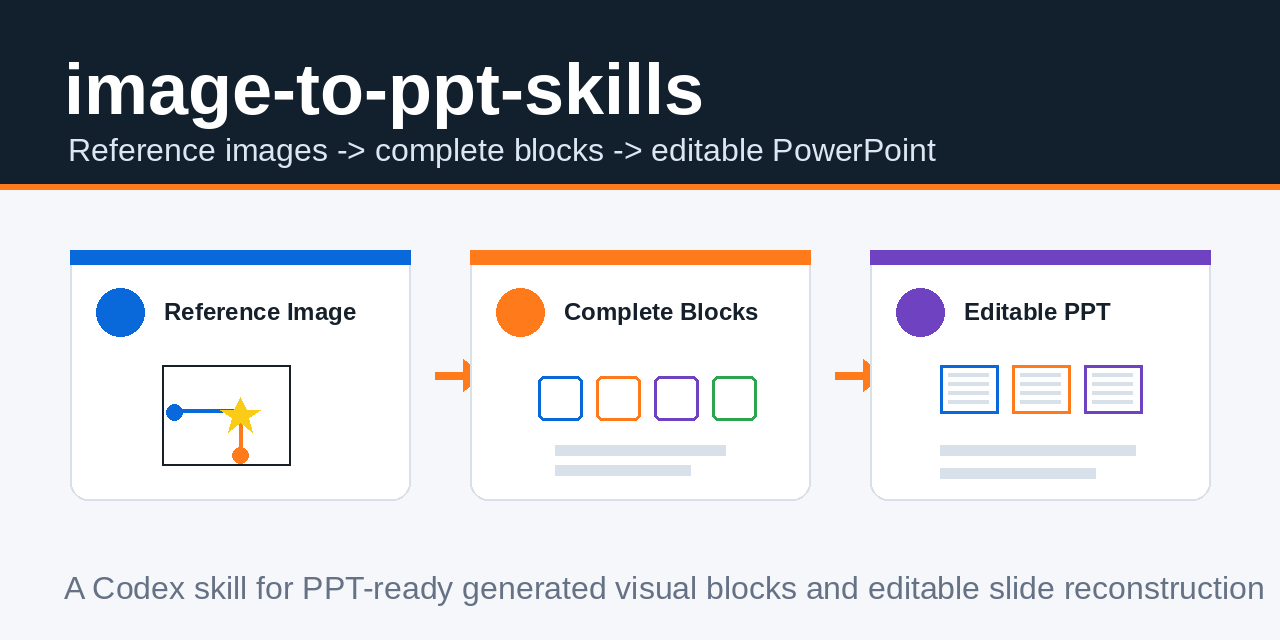
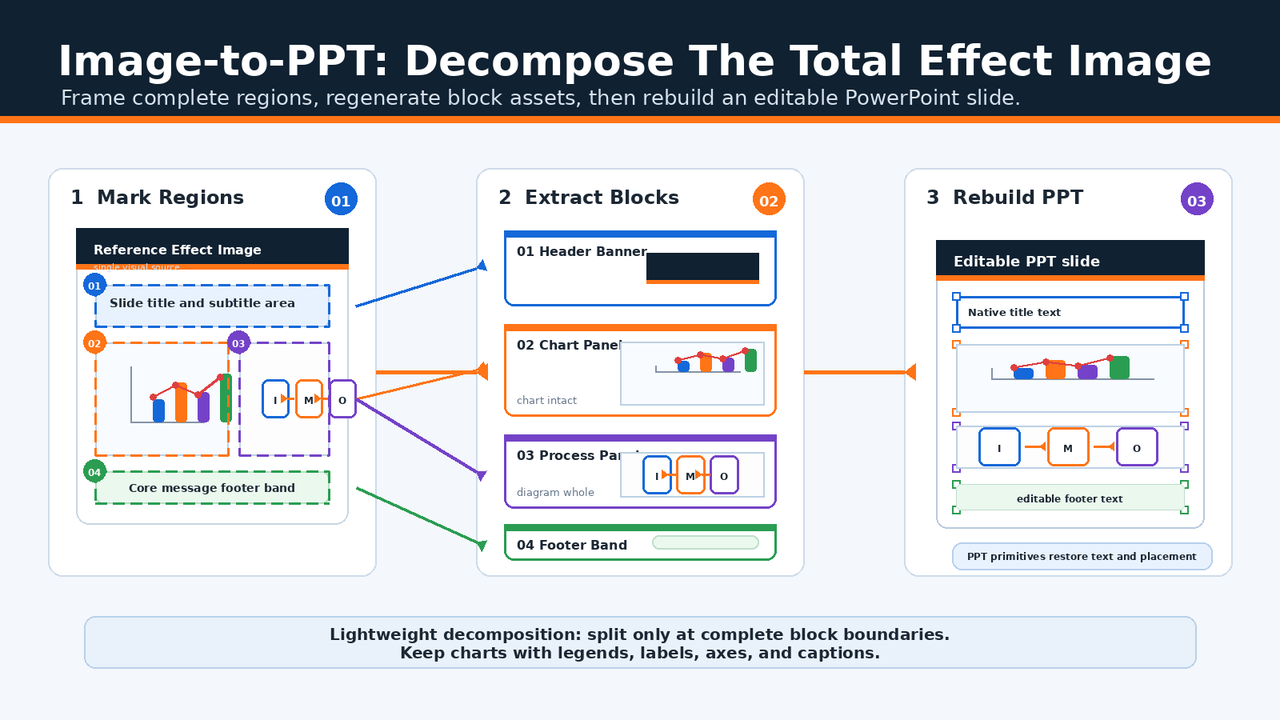
Show total-image decomposition in homepage illustrations

diff --git a/README.md b/README.md
@@ -2,7 +2,7 @@
 
 `image-to-ppt-skills` is a Codex skill for turning reference effect images, paper figures, screenshots, or generated image blocks into editable, validated PowerPoint slides. It is designed for academic figures, mechanism diagrams, framework slides, and data-heavy visual summaries where the final output needs both generated visual polish and practical PPT editability.
 
-![Image To PPT workflow overview](examples/effects/homepage_explainer_v2.png)
+![Image To PPT workflow overview](examples/effects/homepage_decomposition_v3.png)
 
 ## What It Does
 
@@ -27,19 +27,19 @@ The skill does not silently separate chart text from chart graphics. By default,
 
 ## Example Output
 
-The illustrations below are synthetic demo assets generated for this repository. They do not contain user project data.
+The illustrations below are synthetic demo assets generated for this repository. They show the intended decomposition process: start from one total effect image, mark complete visual regions, regenerate those regions as complete block assets, then rebuild the editable PPT layout.
 
 Reference effect image:
 
-![Reference effect](examples/effects/reference_effect_v2.png)
+![Reference effect](examples/effects/reference_effect_decomposition_v3.png)
 
 Generated block assets:
 
-![Generated block contact sheet](examples/effects/generated_block_contact_sheet_v2.png)
+![Generated block contact sheet](examples/effects/generated_block_contact_sheet_decomposition_v3.png)
 
 Editable PPT reconstruction preview:
 
-![Editable PPT preview](examples/effects/editable_ppt_preview_v2.png)
+![Editable PPT preview](examples/effects/editable_ppt_preview_decomposition_v3.png)
 
 The editable PowerPoint example is available at [`examples/effects/example_editable_slide_generic.pptx`](examples/effects/example_editable_slide_generic.pptx).
 